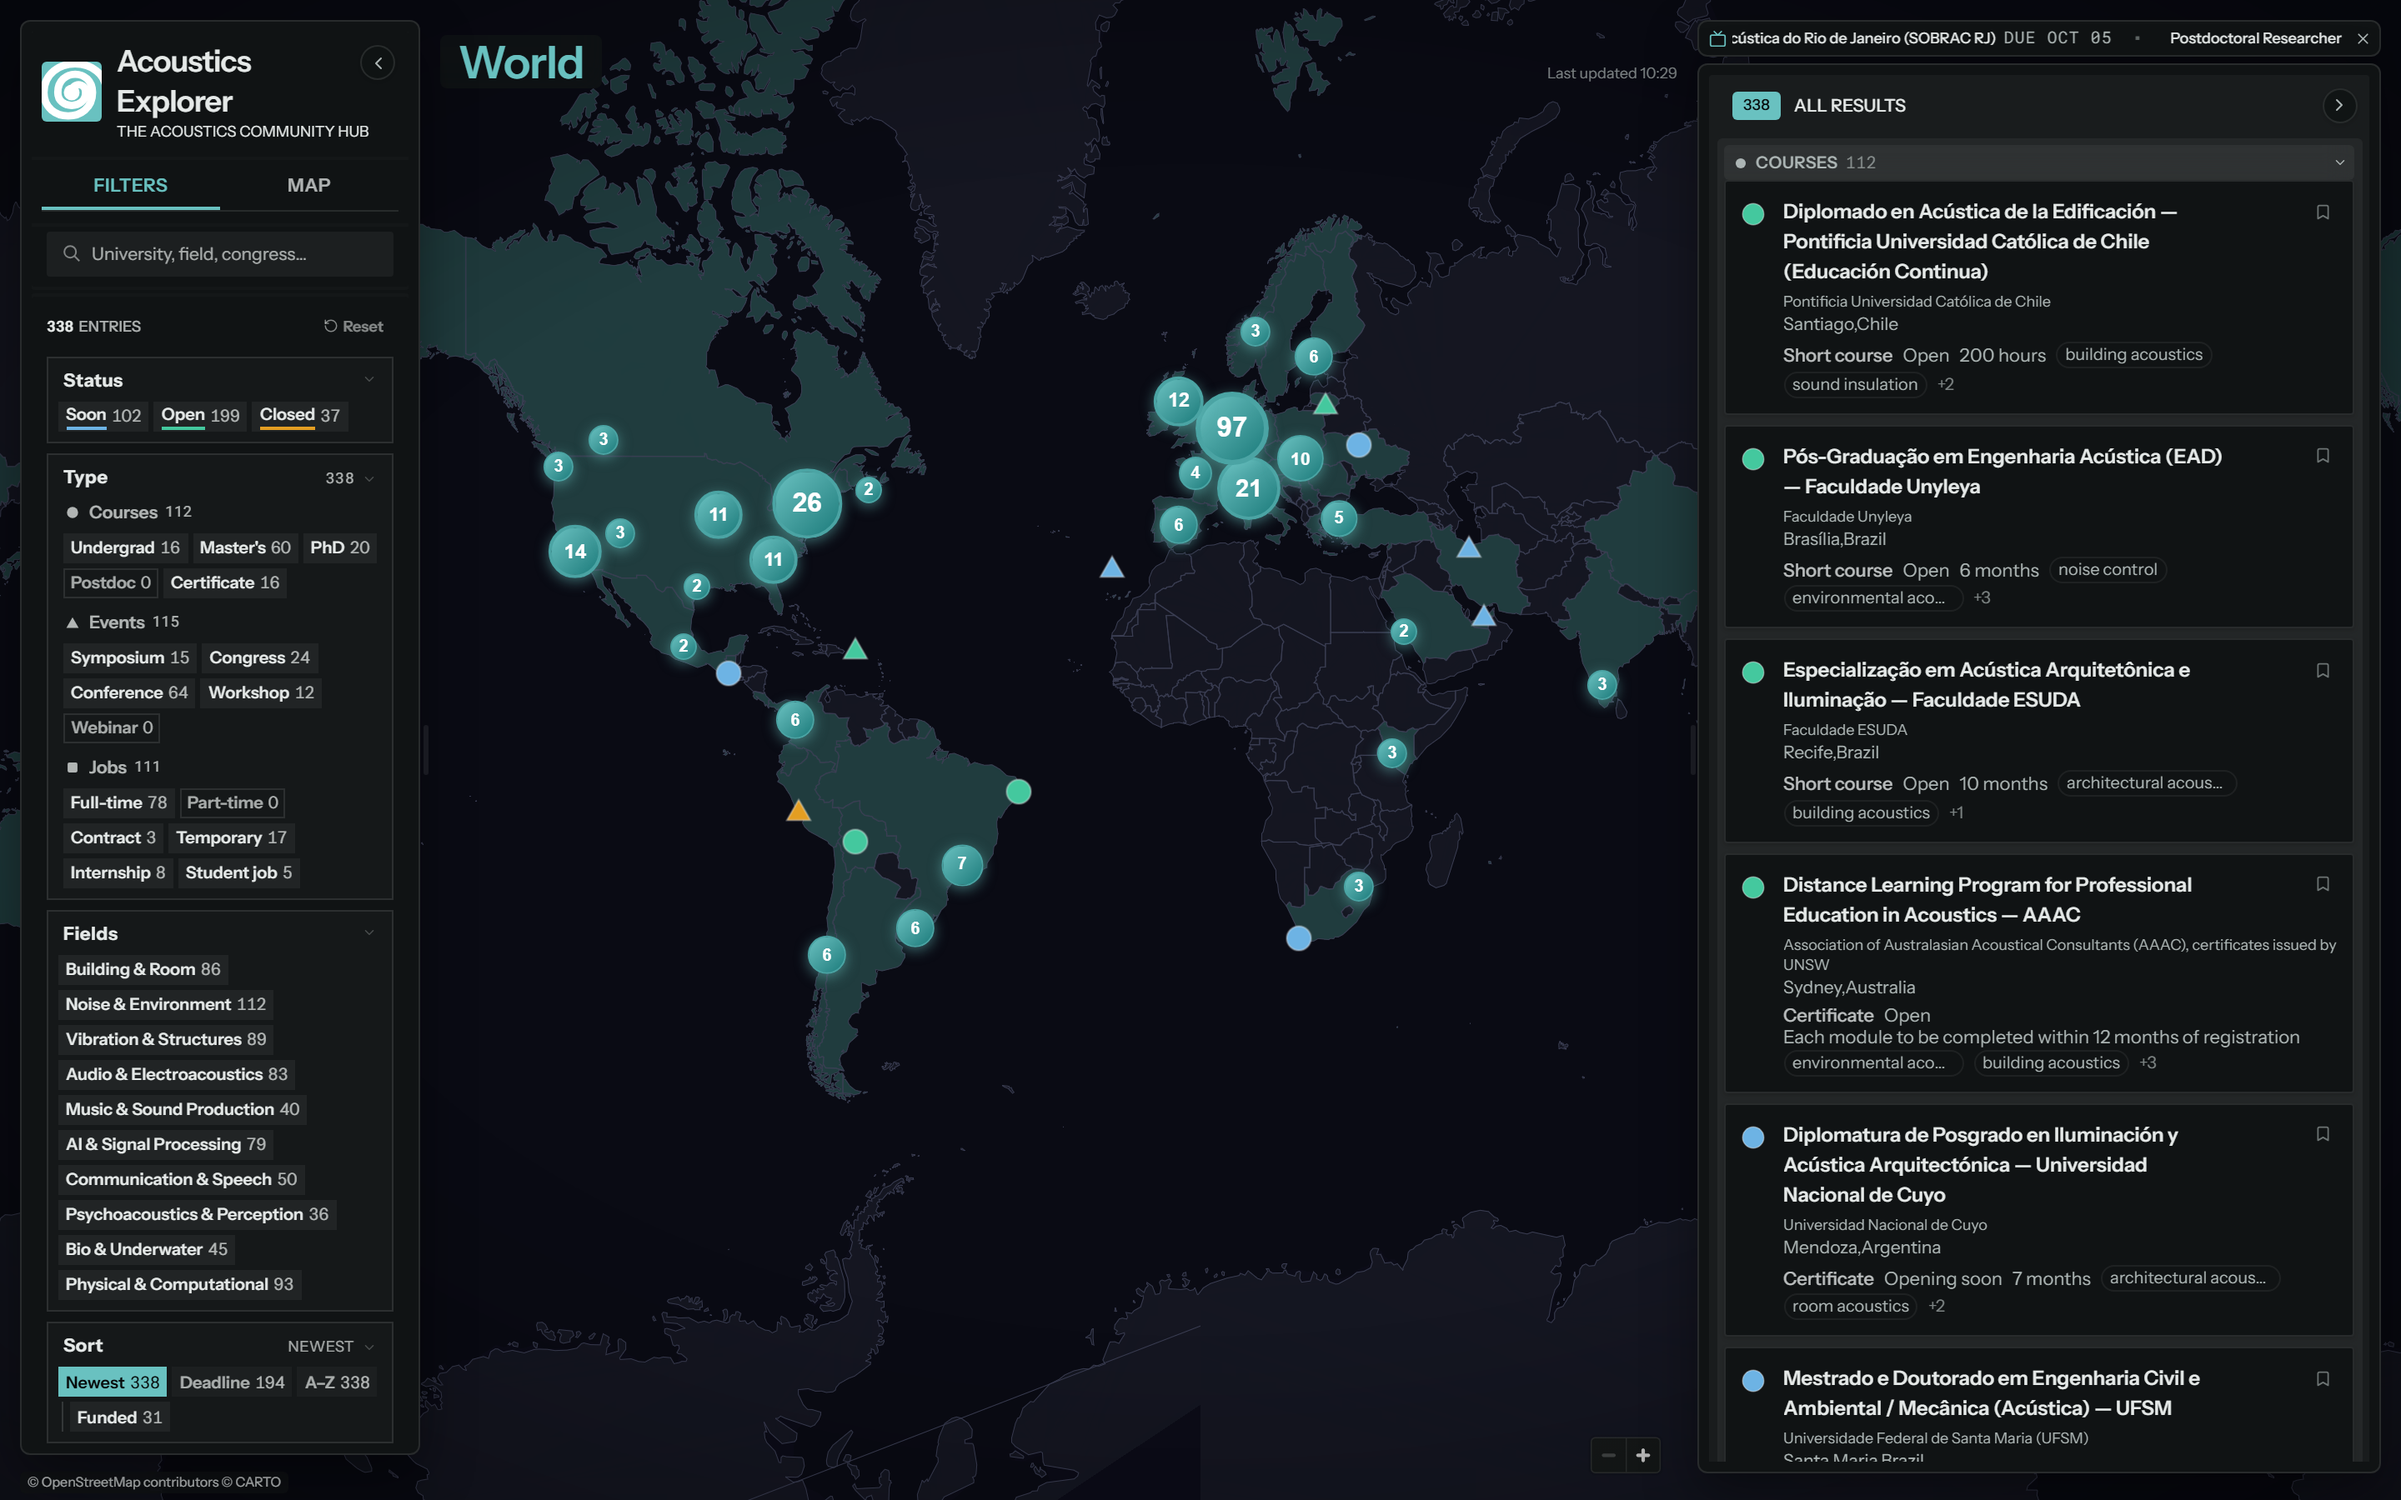
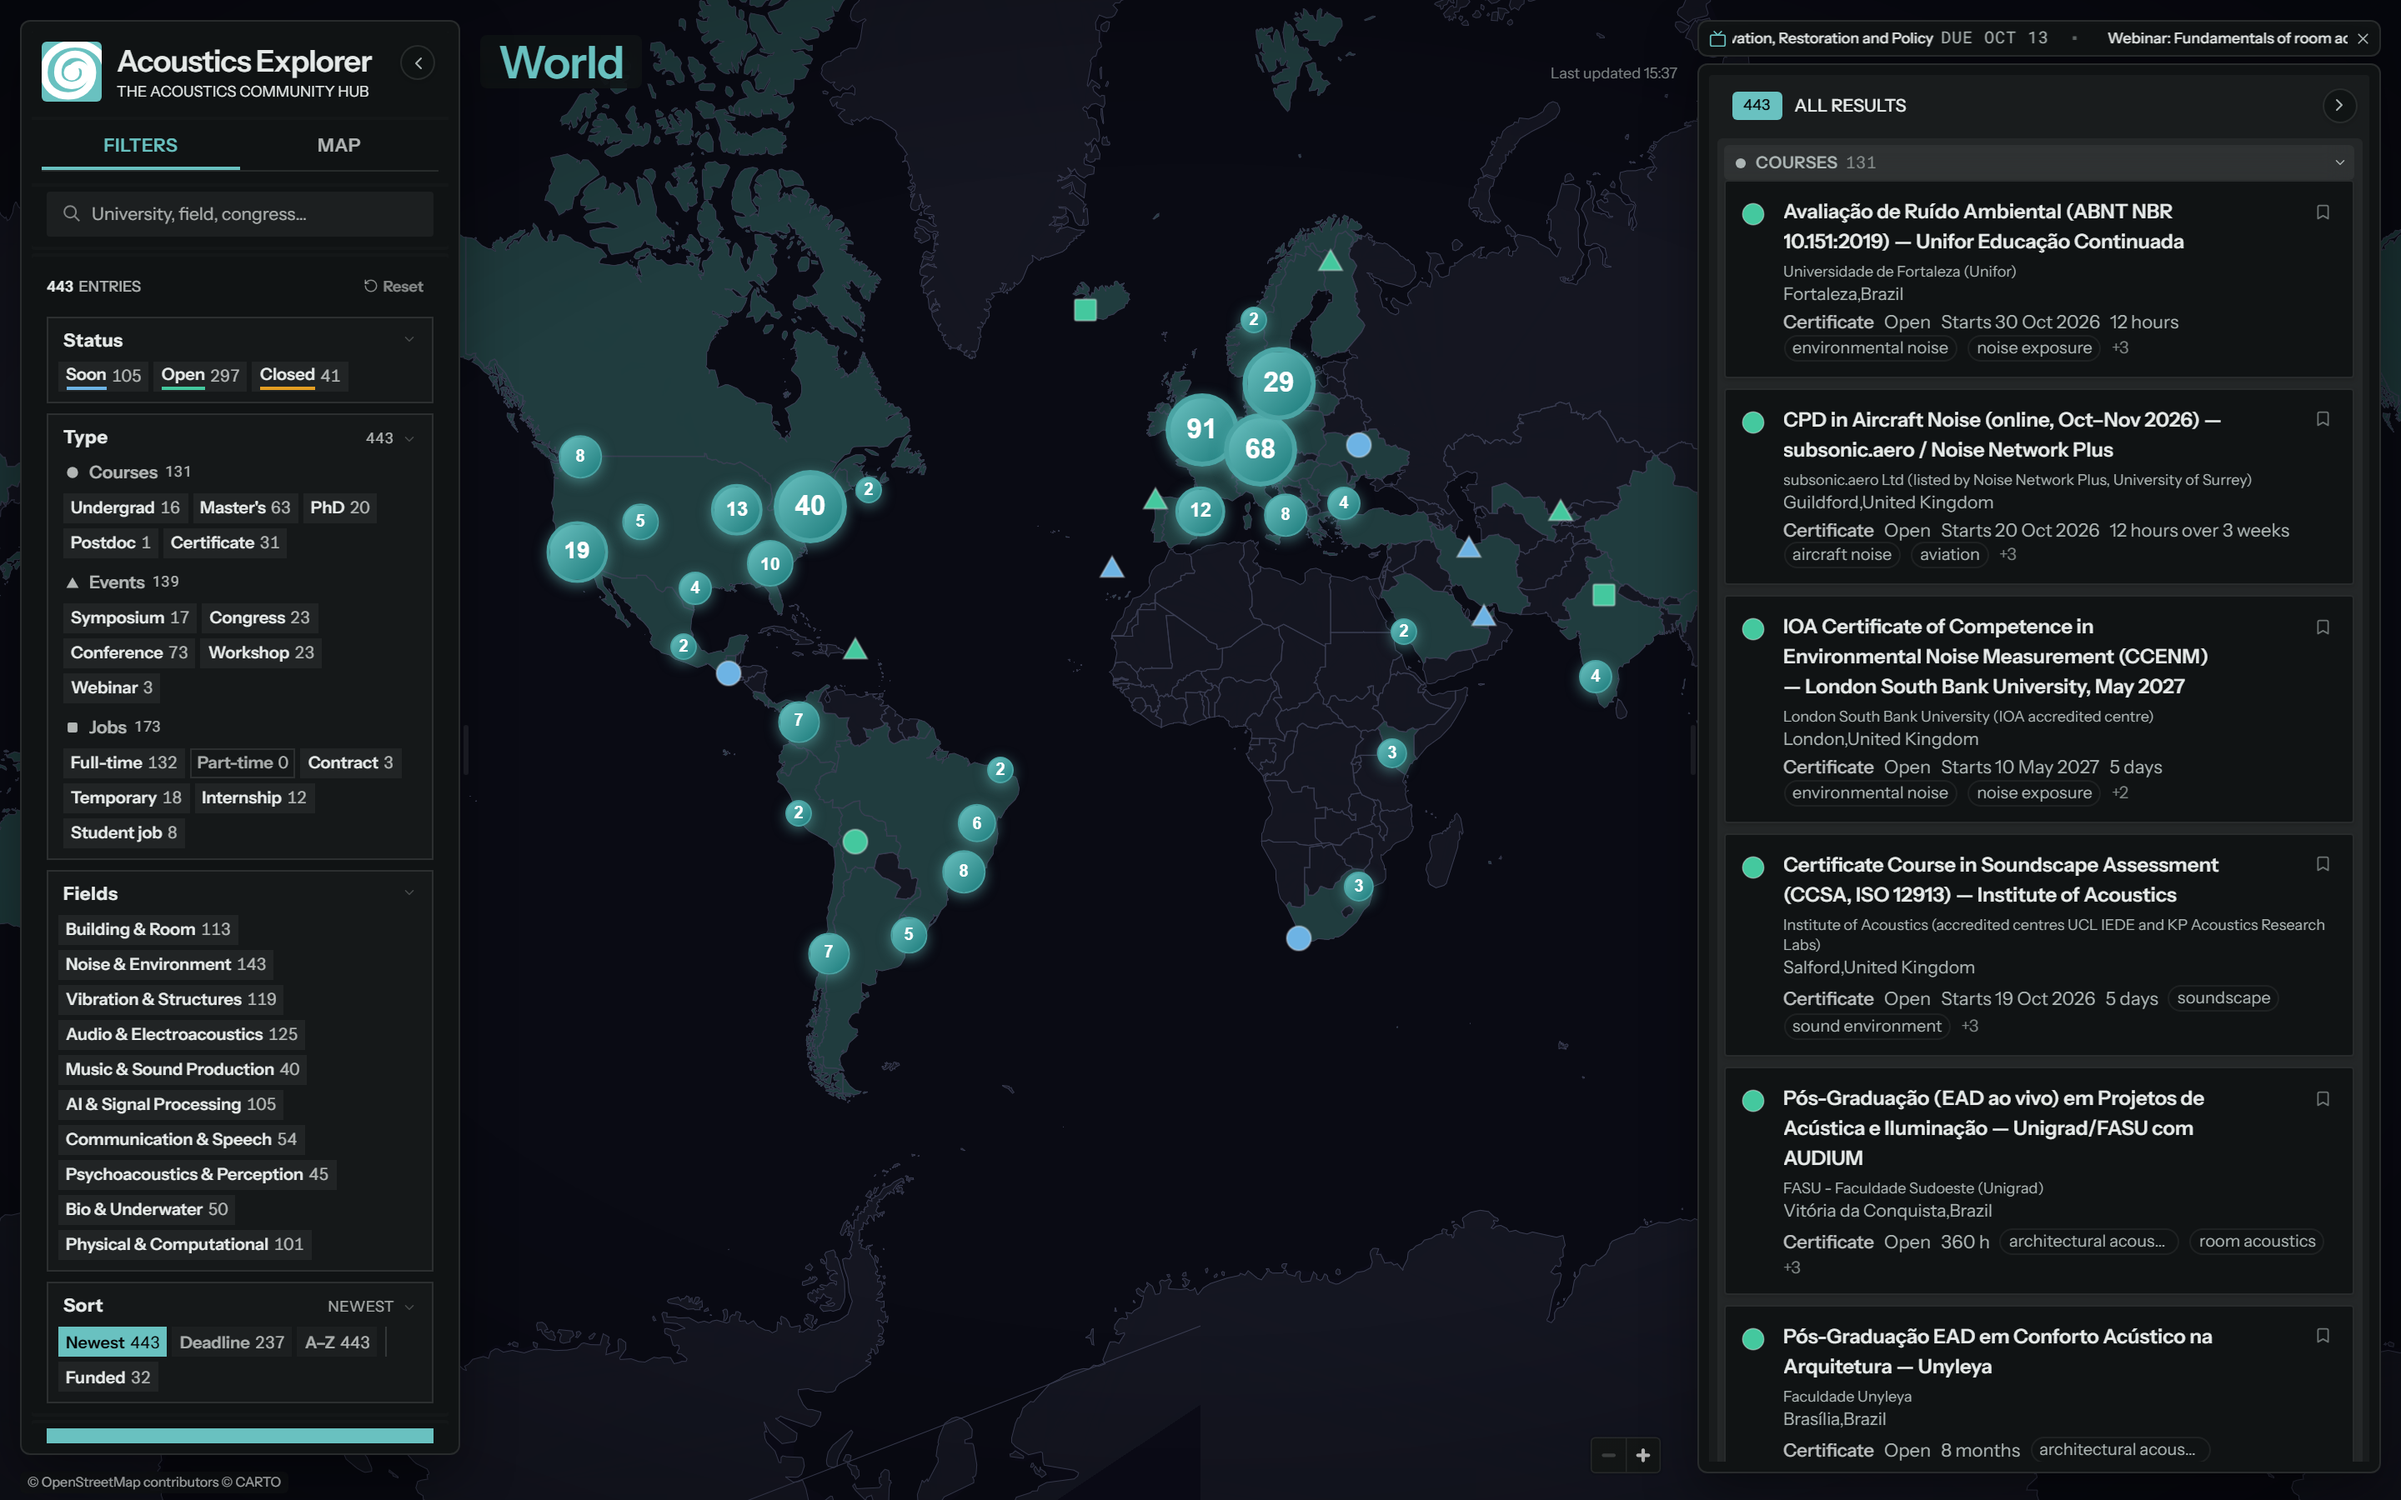
docs: 440+ opportunities in 60 countries, fresh hero, phones around the world

diff --git a/README.md b/README.md
@@ -9,7 +9,7 @@
 Courses, events and jobs in **acoustic engineering**, scattered across hundreds of
 universities, societies and companies, gathered onto one interactive world map.
 
-**350+ opportunities · 55+ countries · 240+ cities · every entry traced to an official source**
+**440+ opportunities · 60 countries · 280+ cities · every entry traced to an official source**
 
 **[→ Open the live map at acousticsexplorer.org](https://www.acousticsexplorer.org)**
 
@@ -103,6 +103,8 @@ The whole map fits a phone screen. Results slide up in a sheet you can swipe thr
 opening an entry flies the map to it and puts the card at the bottom of the screen, and the
 filters live in a drawer behind the menu button. The header tucks itself away after a moment to
 give the map more room.
+
+![Three phones around the world: Acoustics '27 in Brussels, an acoustics engineering job at HARMAN in Seoul, and the African Bioacoustics Community Conference by Lake Naivasha in Kenya](screenshots/mobile-world.png)
 
 ### Keep your own list, no account needed
 
